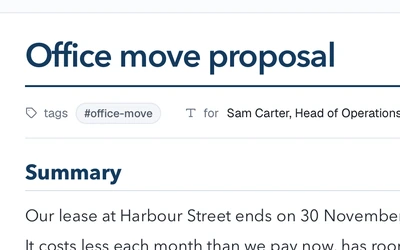
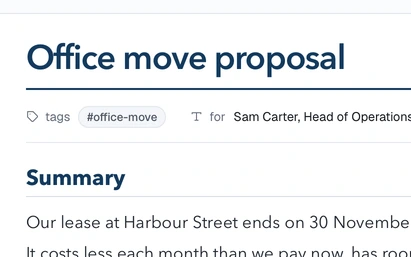
An SVG with no width shows in Edit, filling the line as View draws it; site screenshots are always twice the window's width, whatever the display's scale; the README links the tutorials
- Edit's image frame shrinks to fit its picture, so an SVG with only a viewBox (![[chart.svg]]) sized to nothing. Once loaded, an image with no size given that draws under 2px wide fills the line.
- tools/screenshots.py kept the snapshot's own size for the site's pictures, 4x on a display scaled past 2x. They're now 2x the window's width in points (2880), and the cards' 1x copies are cut at the window's own size, so they're exactly 1:1 (411 by 257).
- Decision D-20261021-03 supersedes D-20261021-02.

diff --git a/site/tutorials/index.html b/site/tutorials/index.html
@@ -78,7 +78,7 @@
         <span class="go">Start the tutorial ›</span>
       </div>
       <div class="level-shot" aria-hidden="true">
-        <div class="mini"><span class="mini-bar"><i></i><i></i><i></i></span><img src="../img/tut-card-beginner-light.webp" srcset="../img/tut-card-beginner-light@1x.webp 1x, ../img/tut-card-beginner-light.webp 2x" alt="" width="400" height="250" loading="lazy"></div>
+        <div class="mini"><span class="mini-bar"><i></i><i></i><i></i></span><img src="../img/tut-card-beginner-light.webp" srcset="../img/tut-card-beginner-light@1x.webp 1x, ../img/tut-card-beginner-light.webp 2x" alt="" width="411" height="257" loading="lazy"></div>
       </div>
     </a>
     <a class="level reveal" href="intermediate.html">
@@ -89,7 +89,7 @@
         <span class="go">Start the tutorial ›</span>
       </div>
       <div class="level-shot" aria-hidden="true">
-        <div class="mini"><span class="mini-bar"><i></i><i></i><i></i></span><img src="../img/tut2-card-light.webp" srcset="../img/tut2-card-light@1x.webp 1x, ../img/tut2-card-light.webp 2x" alt="" width="400" height="250" loading="lazy"></div>
+        <div class="mini"><span class="mini-bar"><i></i><i></i><i></i></span><img src="../img/tut2-card-light.webp" srcset="../img/tut2-card-light@1x.webp 1x, ../img/tut2-card-light.webp 2x" alt="" width="411" height="257" loading="lazy"></div>
       </div>
     </a>
     <a class="level reveal" href="advanced.html">
@@ -100,7 +100,7 @@
         <span class="go">Start the tutorial ›</span>
       </div>
       <div class="level-shot" aria-hidden="true">
-        <div class="mini"><span class="mini-bar"><i></i><i></i><i></i></span><img src="../img/tut3-card-light.webp" srcset="../img/tut3-card-light@1x.webp 1x, ../img/tut3-card-light.webp 2x" alt="" width="400" height="250" loading="lazy"></div>
+        <div class="mini"><span class="mini-bar"><i></i><i></i><i></i></span><img src="../img/tut3-card-light.webp" srcset="../img/tut3-card-light@1x.webp 1x, ../img/tut3-card-light.webp 2x" alt="" width="411" height="257" loading="lazy"></div>
       </div>
     </a>
     <a class="level reveal" href="power.html">
@@ -111,7 +111,7 @@
         <span class="go">Start the tutorial ›</span>
       </div>
       <div class="level-shot" aria-hidden="true">
-        <div class="mini"><span class="mini-bar"><i></i><i></i><i></i></span><img src="../img/tut4-card-light.webp" srcset="../img/tut4-card-light@1x.webp 1x, ../img/tut4-card-light.webp 2x" alt="" width="400" height="250" loading="lazy"></div>
+        <div class="mini"><span class="mini-bar"><i></i><i></i><i></i></span><img src="../img/tut4-card-light.webp" srcset="../img/tut4-card-light@1x.webp 1x, ../img/tut4-card-light.webp 2x" alt="" width="411" height="257" loading="lazy"></div>
       </div>
     </a>
   </section>

diff --git a/site/index.html b/site/index.html
@@ -369,7 +369,7 @@
         <span class="go">Start the tutorial ›</span>
       </div>
       <div class="level-shot" aria-hidden="true">
-        <div class="mini"><span class="mini-bar"><i></i><i></i><i></i></span><img src="img/tut-card-beginner-light.webp" srcset="img/tut-card-beginner-light@1x.webp 1x, img/tut-card-beginner-light.webp 2x" alt="" width="400" height="250" loading="lazy"></div>
+        <div class="mini"><span class="mini-bar"><i></i><i></i><i></i></span><img src="img/tut-card-beginner-light.webp" srcset="img/tut-card-beginner-light@1x.webp 1x, img/tut-card-beginner-light.webp 2x" alt="" width="411" height="257" loading="lazy"></div>
       </div>
     </a>
     <a class="level reveal" href="tutorials/intermediate.html">
@@ -380,7 +380,7 @@
         <span class="go">Start the tutorial ›</span>
       </div>
       <div class="level-shot" aria-hidden="true">
-        <div class="mini"><span class="mini-bar"><i></i><i></i><i></i></span><img src="img/tut2-card-light.webp" srcset="img/tut2-card-light@1x.webp 1x, img/tut2-card-light.webp 2x" alt="" width="400" height="250" loading="lazy"></div>
+        <div class="mini"><span class="mini-bar"><i></i><i></i><i></i></span><img src="img/tut2-card-light.webp" srcset="img/tut2-card-light@1x.webp 1x, img/tut2-card-light.webp 2x" alt="" width="411" height="257" loading="lazy"></div>
       </div>
     </a>
     <a class="level reveal" href="tutorials/advanced.html">
@@ -391,7 +391,7 @@
         <span class="go">Start the tutorial ›</span>
       </div>
       <div class="level-shot" aria-hidden="true">
-        <div class="mini"><span class="mini-bar"><i></i><i></i><i></i></span><img src="img/tut3-card-light.webp" srcset="img/tut3-card-light@1x.webp 1x, img/tut3-card-light.webp 2x" alt="" width="400" height="250" loading="lazy"></div>
+        <div class="mini"><span class="mini-bar"><i></i><i></i><i></i></span><img src="img/tut3-card-light.webp" srcset="img/tut3-card-light@1x.webp 1x, img/tut3-card-light.webp 2x" alt="" width="411" height="257" loading="lazy"></div>
       </div>
     </a>
     <a class="level reveal" href="tutorials/power.html">
@@ -402,7 +402,7 @@
         <span class="go">Start the tutorial ›</span>
       </div>
       <div class="level-shot" aria-hidden="true">
-        <div class="mini"><span class="mini-bar"><i></i><i></i><i></i></span><img src="img/tut4-card-light.webp" srcset="img/tut4-card-light@1x.webp 1x, img/tut4-card-light.webp 2x" alt="" width="400" height="250" loading="lazy"></div>
+        <div class="mini"><span class="mini-bar"><i></i><i></i><i></i></span><img src="img/tut4-card-light.webp" srcset="img/tut4-card-light@1x.webp 1x, img/tut4-card-light.webp 2x" alt="" width="411" height="257" loading="lazy"></div>
       </div>
     </a>
     </div>

diff --git a/site/styles.css b/site/styles.css
@@ -688,7 +688,7 @@ h2 {
 }
 
 /* The tutorials' cards, one a level: on the tutorials index and the home page's Learn section. */
-/* Two cards a row, each 400px wide, so its picture (cropped at 400 by 250, with a 2x copy) is
+/* Two cards a row, each 400px wide, so its picture (the window's own pixels, with a 2x copy) is
    drawn at its own size and stays sharp on a 1x screen. */
 .levels {
   max-width: 852px;
@@ -716,7 +716,7 @@ a.level:hover {
 }
 /* The card's picture: a small app window on a tinted panel, peeking up from the foot of the card,
    so it reads as the app and not as the tutorial's text. The picture is drawn at its own size
-   (400 by 250, with a 2x copy) and the panel crops what doesn't fit. */
+   (the window's own pixels, with a 2x copy) and the panel crops what doesn't fit. */
 .level-shot {
   margin-top: auto;
   height: 200px;
@@ -728,7 +728,7 @@ a.level:hover {
   border-top: 1px solid var(--line);
 }
 .mini {
-  width: 400px;
+  width: max-content;
   border-radius: 10px 0 0 0;
   overflow: hidden;
   background: var(--surface);
@@ -756,7 +756,8 @@ a.level:hover .mini {
   background: #d5d9df;
 }
 .mini img {
-  width: 400px;
+  display: block;
+  width: auto;
   max-width: none;
   height: auto;
 }

diff --git a/src/editor/live.ts b/src/editor/live.ts
@@ -80,6 +80,14 @@ class ImageWidget extends WidgetType {
     if (width) img.style.width = `${width}px`;
     if (height && !width) img.style.height = `${height}px`;
     span.appendChild(img);
+    // A picture with no size of its own (an SVG with only a viewBox) would shrink to nothing in
+    // this shrink-to-fit frame: it fills the line instead, as View draws it.
+    if (!width && !height)
+      img.addEventListener("load", () =>
+        requestAnimationFrame(() => {
+          if (img.isConnected && img.getBoundingClientRect().width < 2) span.classList.add("fluid");
+        }),
+      );
     void this.hooks.imageUrl?.(this.src).then((u) => {
       if (u) img.src = u;
       else {

diff --git a/src/styles.css b/src/styles.css
@@ -3790,6 +3790,11 @@ button.rnhead {
   max-width: 100%;
   cursor: default;
 }
+.editor .cm-img.fluid,
+.editor .cm-img.fluid img {
+  display: block;
+  width: 100%;
+}
 
 /* In Edit: a frame, a handle at each corner to resize, and a button to remove it. */
 .editor .cm-img.edit:hover img,

diff --git a/tools/screenshots.py b/tools/screenshots.py
@@ -61,6 +61,9 @@ RELEASE_BIN = ROOT / "src-tauri" / "target" / "release" / "bundle" / "macos" / "
 DEV_URL = "http://localhost:1440"
 FIXTURE = ROOT / "tests" / "fixtures" / "vault"
 WIDTH = 1400
+# The main window's width in points as the scenes open it (src-tauri/src/lib.rs): the site's
+# pictures are twice this, whatever the display's scale.
+WINDOW = 1440
 SETTLE = 5.0
 # How long past its delay a snapshot may take to come before the launch is given up as failed
 # (normally it's there within a second or two).
@@ -396,28 +399,38 @@ def shoot(scene, theme, data):
     print(f"  {out.relative_to(ROOT)}  {im.width}x{im.height}")
     site = SITE / f"{scene['name']}-{theme}.webp"
     if site.exists():
-        big = finish(raw, scene, theme, full=True)
+        big = finish(raw, scene, theme, scale=2)
         big.save(site, "WEBP", quality=90, method=6)
         print(f"  {site.relative_to(ROOT)}  {big.width}x{big.height}")
     # A picture shown at its own size (the tutorials' cards) has a 1x copy beside it, for srcset:
     # a screen at 1x then gets the app's own pixels, not a 2x picture scaled down to a blur.
     small = SITE / f"{scene['name']}-{theme}@1x.webp"
     if small.exists():
-        im.save(small, "WEBP", quality=92, method=6)
-        print(f"  {small.relative_to(ROOT)}  {im.width}x{im.height}")
+        one = finish(raw, scene, theme, scale=1)
+        one.save(small, "WEBP", quality=92, method=6)
+        print(f"  {small.relative_to(ROOT)}  {one.width}x{one.height}")
     return True
 
 
-def finish(im, scene, theme, full=False):
-    """The snapshot as it's saved: at the scene's width (or, `full`, its own size, never larger),
-    with the window's chrome, cropped."""
+def points(scene):
+    """The scene window's width in points: the main window opens at 1440 (src-tauri/src/lib.rs) or
+    a scene's "window" size; the menu-bar window keeps its own "width"."""
+    if scene.get("tray"):
+        return scene["width"]
+    return scene.get("window", [WINDOW])[0]
+
+
+def finish(im, scene, theme, scale=None):
+    """The snapshot as it's saved: at the scene's width, or at `scale` times the window's own width
+    in points (2 for the site's pictures, 1 for a 1x copy), never larger than the snapshot, with
+    the window's chrome, cropped (crops are given at the scene's width)."""
     # A scene may keep its own width (the menu-bar window, at its natural 2x size).
     width = scene.get("width", WIDTH)
-    s = max(1.0, im.width / width) if full else 1.0
-    size = round(width * s)
+    size = width if scale is None else min(im.width, round(points(scene) * scale))
+    s = size / width
     im = im.resize((size, round(im.height * size / im.width)), Image.LANCZOS)
     if not scene.get("tray"):
-        im = chrome(im, theme, s)
+        im = chrome(im, theme, max(1.0, s))
     if "crop" in scene:
         x, y, w, h = (round(v * s) for v in scene["crop"])
         im = im.crop((x, y, x + w, y + h))

diff --git a/docs/development.md b/docs/development.md
@@ -163,7 +163,7 @@ macOS only. `make screenshots` retakes every scene in `tools/screenshots/scenes.
 `site/` is the product page at https://brainstead.davies.co.za/: plain HTML, CSS and JS with no build step, light only. `.github/workflows/pages.yml` publishes it to GitHub Pages when `site/` changes on main.
 
 - Preview it with `python3 -m http.server -d site 8765` and open http://localhost:8765/.
-- Its screenshots are written by `tools/screenshots.py` with the light docs ones: a scene with a picture in `site/img/` (`<name>-light.webp`) is saved there too, from the same snapshot at its full Retina size (the app snapshots at twice the window's width; the docs' PNGs are scaled down from it). To add one, put a file of that name there and take the scene. The tutorials (`site/tutorials/`) use the `tut*` scenes the same way; a picture with an `@1x.webp` beside it (the tutorial cards, cropped at the size they're shown) gets that 1x copy too, for `srcset`.
+- Its screenshots are written by `tools/screenshots.py` with the light docs ones: a scene with a picture in `site/img/` (`<name>-light.webp`) is saved there too, from the same snapshot at twice the window's width in points (2880 for the 1440-point window), whatever the display's scale, so it's sharp on Retina and doesn't grow on a display scaled past 2x; the docs' PNGs are scaled down from it. To add one, put a file of that name there and take the scene. The tutorials (`site/tutorials/`) use the `tut*` scenes the same way; a picture with an `@1x.webp` beside it (the tutorial cards, cropped at the size they're shown) gets that 1x copy too, at the window's own size in points, for `srcset`.
 - `img/og.png` is the 1200×630 card shown when the link is shared. The canonical URL, the Open Graph tags, the structured data and `sitemap.xml` all name the address above, so change them together if it moves.
 - Like the app, it never names the other markdown editors, and uses invented names only.
 

diff --git a/README.md b/README.md
@@ -4,7 +4,7 @@ A home for everything on your mind: tasks, notes and an LLM wiki that writes its
 
 Brainstead is a Mac and Windows app for [Getting Things Done](https://gettingthingsdone.com), notes and an [LLM wiki](https://gist.github.com/karpathy/442a6bf555914893e9891c11519de94f), all in one folder of markdown files (your vault) that other markdown editors can open too. Your tasks are `- [ ]` lines in your notes, gathered into GTD lists. AI assistants you already have on your computer (Claude Code, Codex, Copilot, Antigravity) answer from the vault, build wiki pages from your sources with every claim quoted, and make changes for you, each listed with Revert.
 
-See it on the [Brainstead website](https://brainstead.davies.co.za/).
+See it on the [Brainstead website](https://brainstead.davies.co.za/), and learn it step by step with the [tutorials](https://brainstead.davies.co.za/tutorials/): Beginner, Intermediate, Advanced and Power user.
 
 ## Download
 
